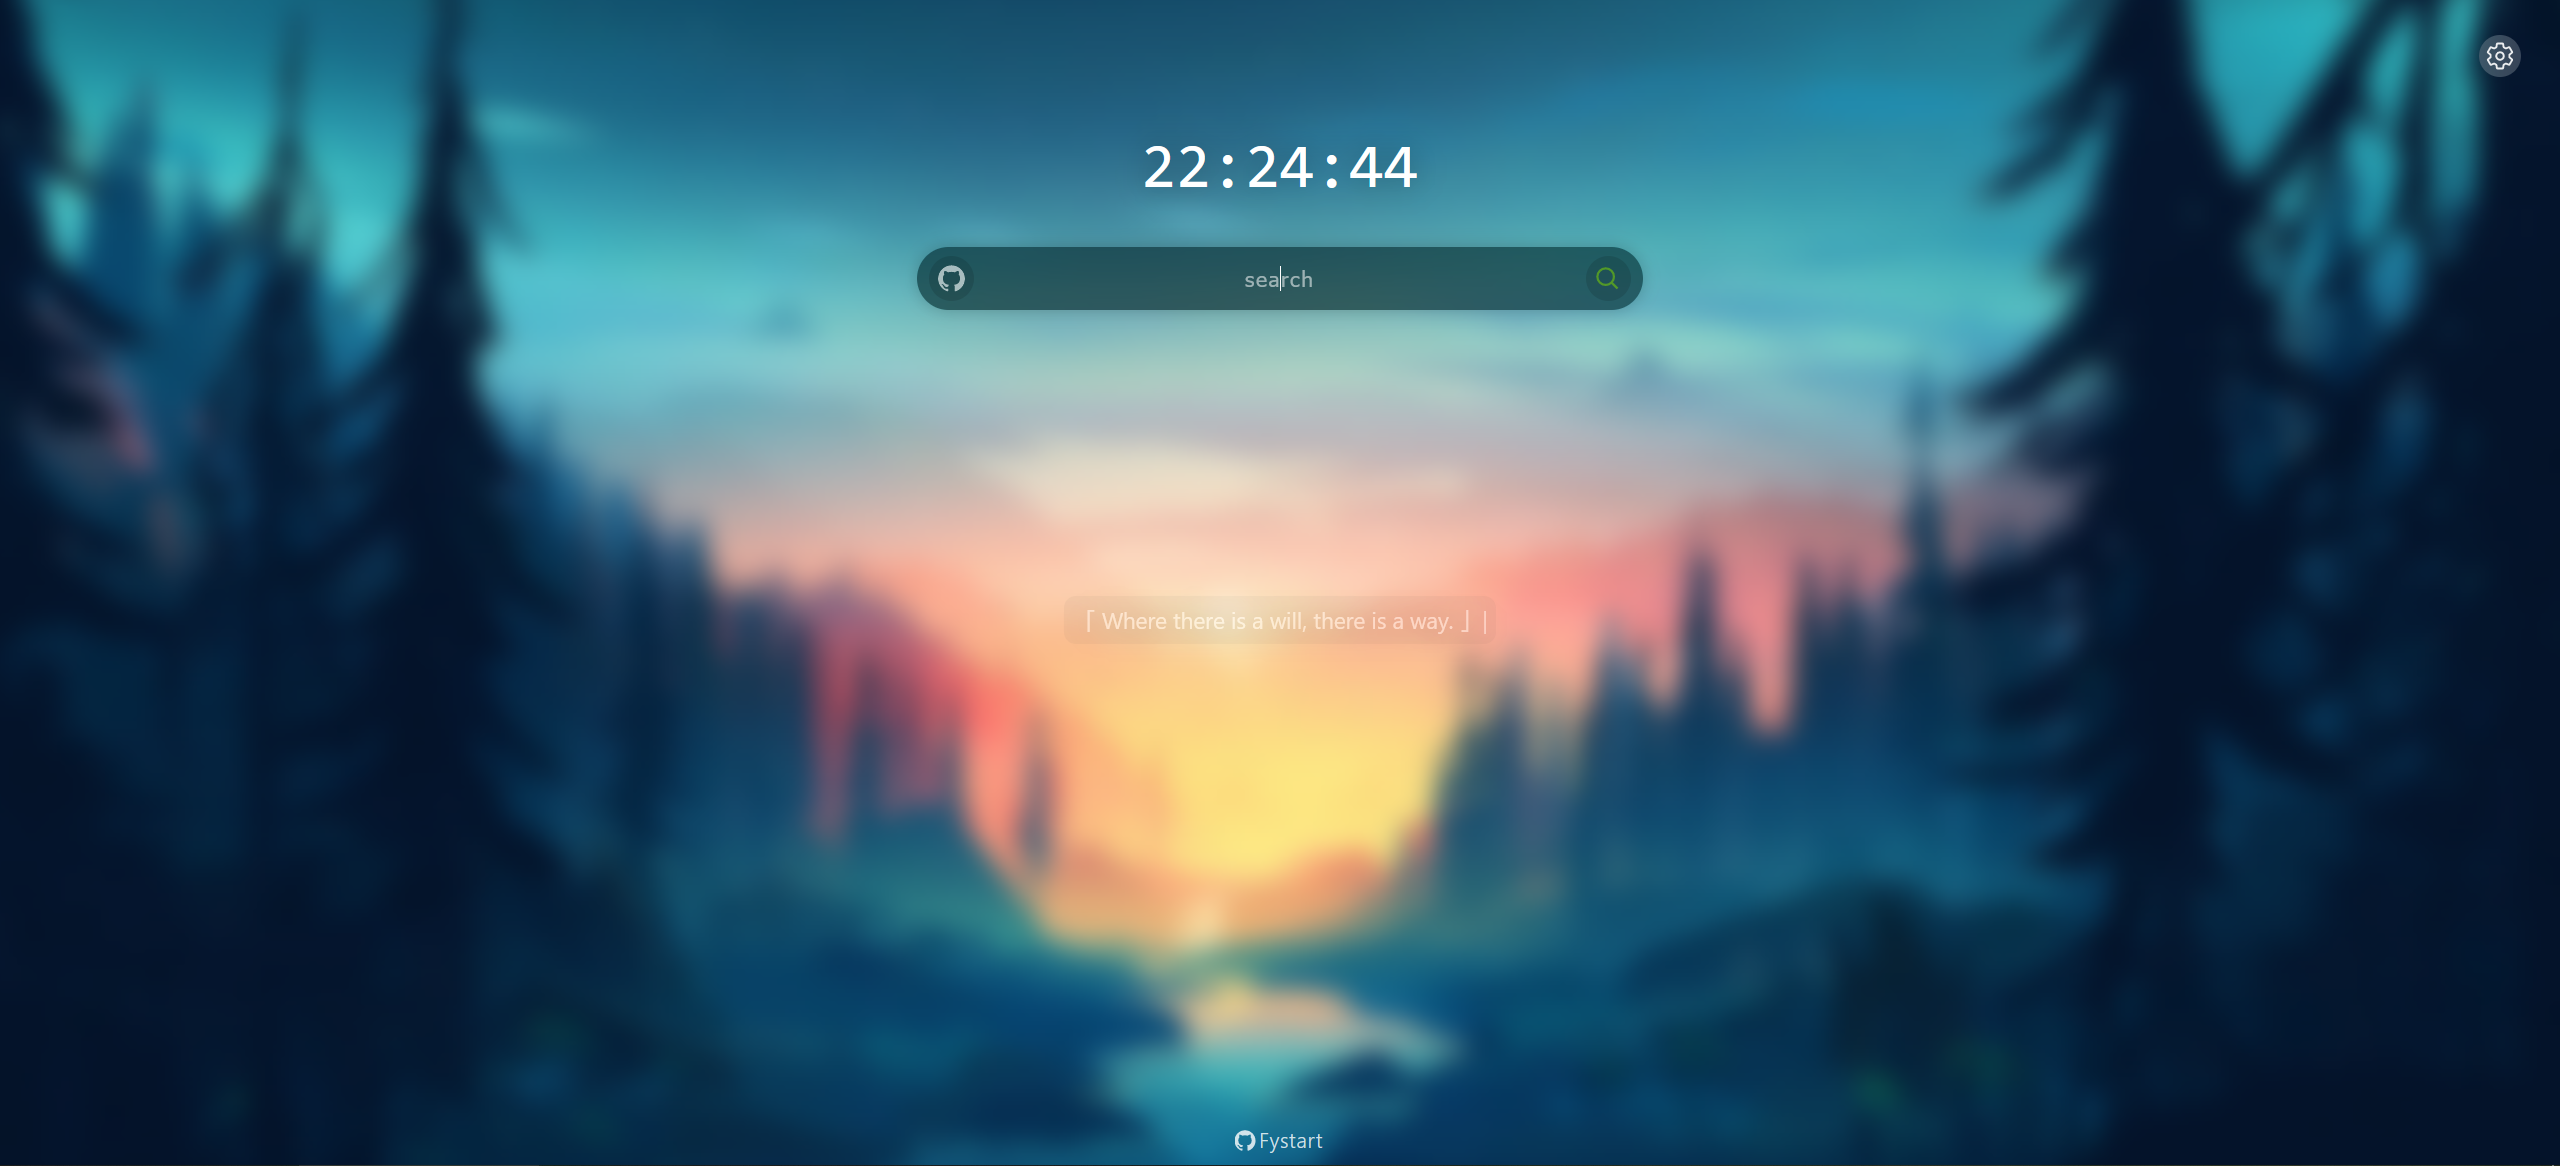
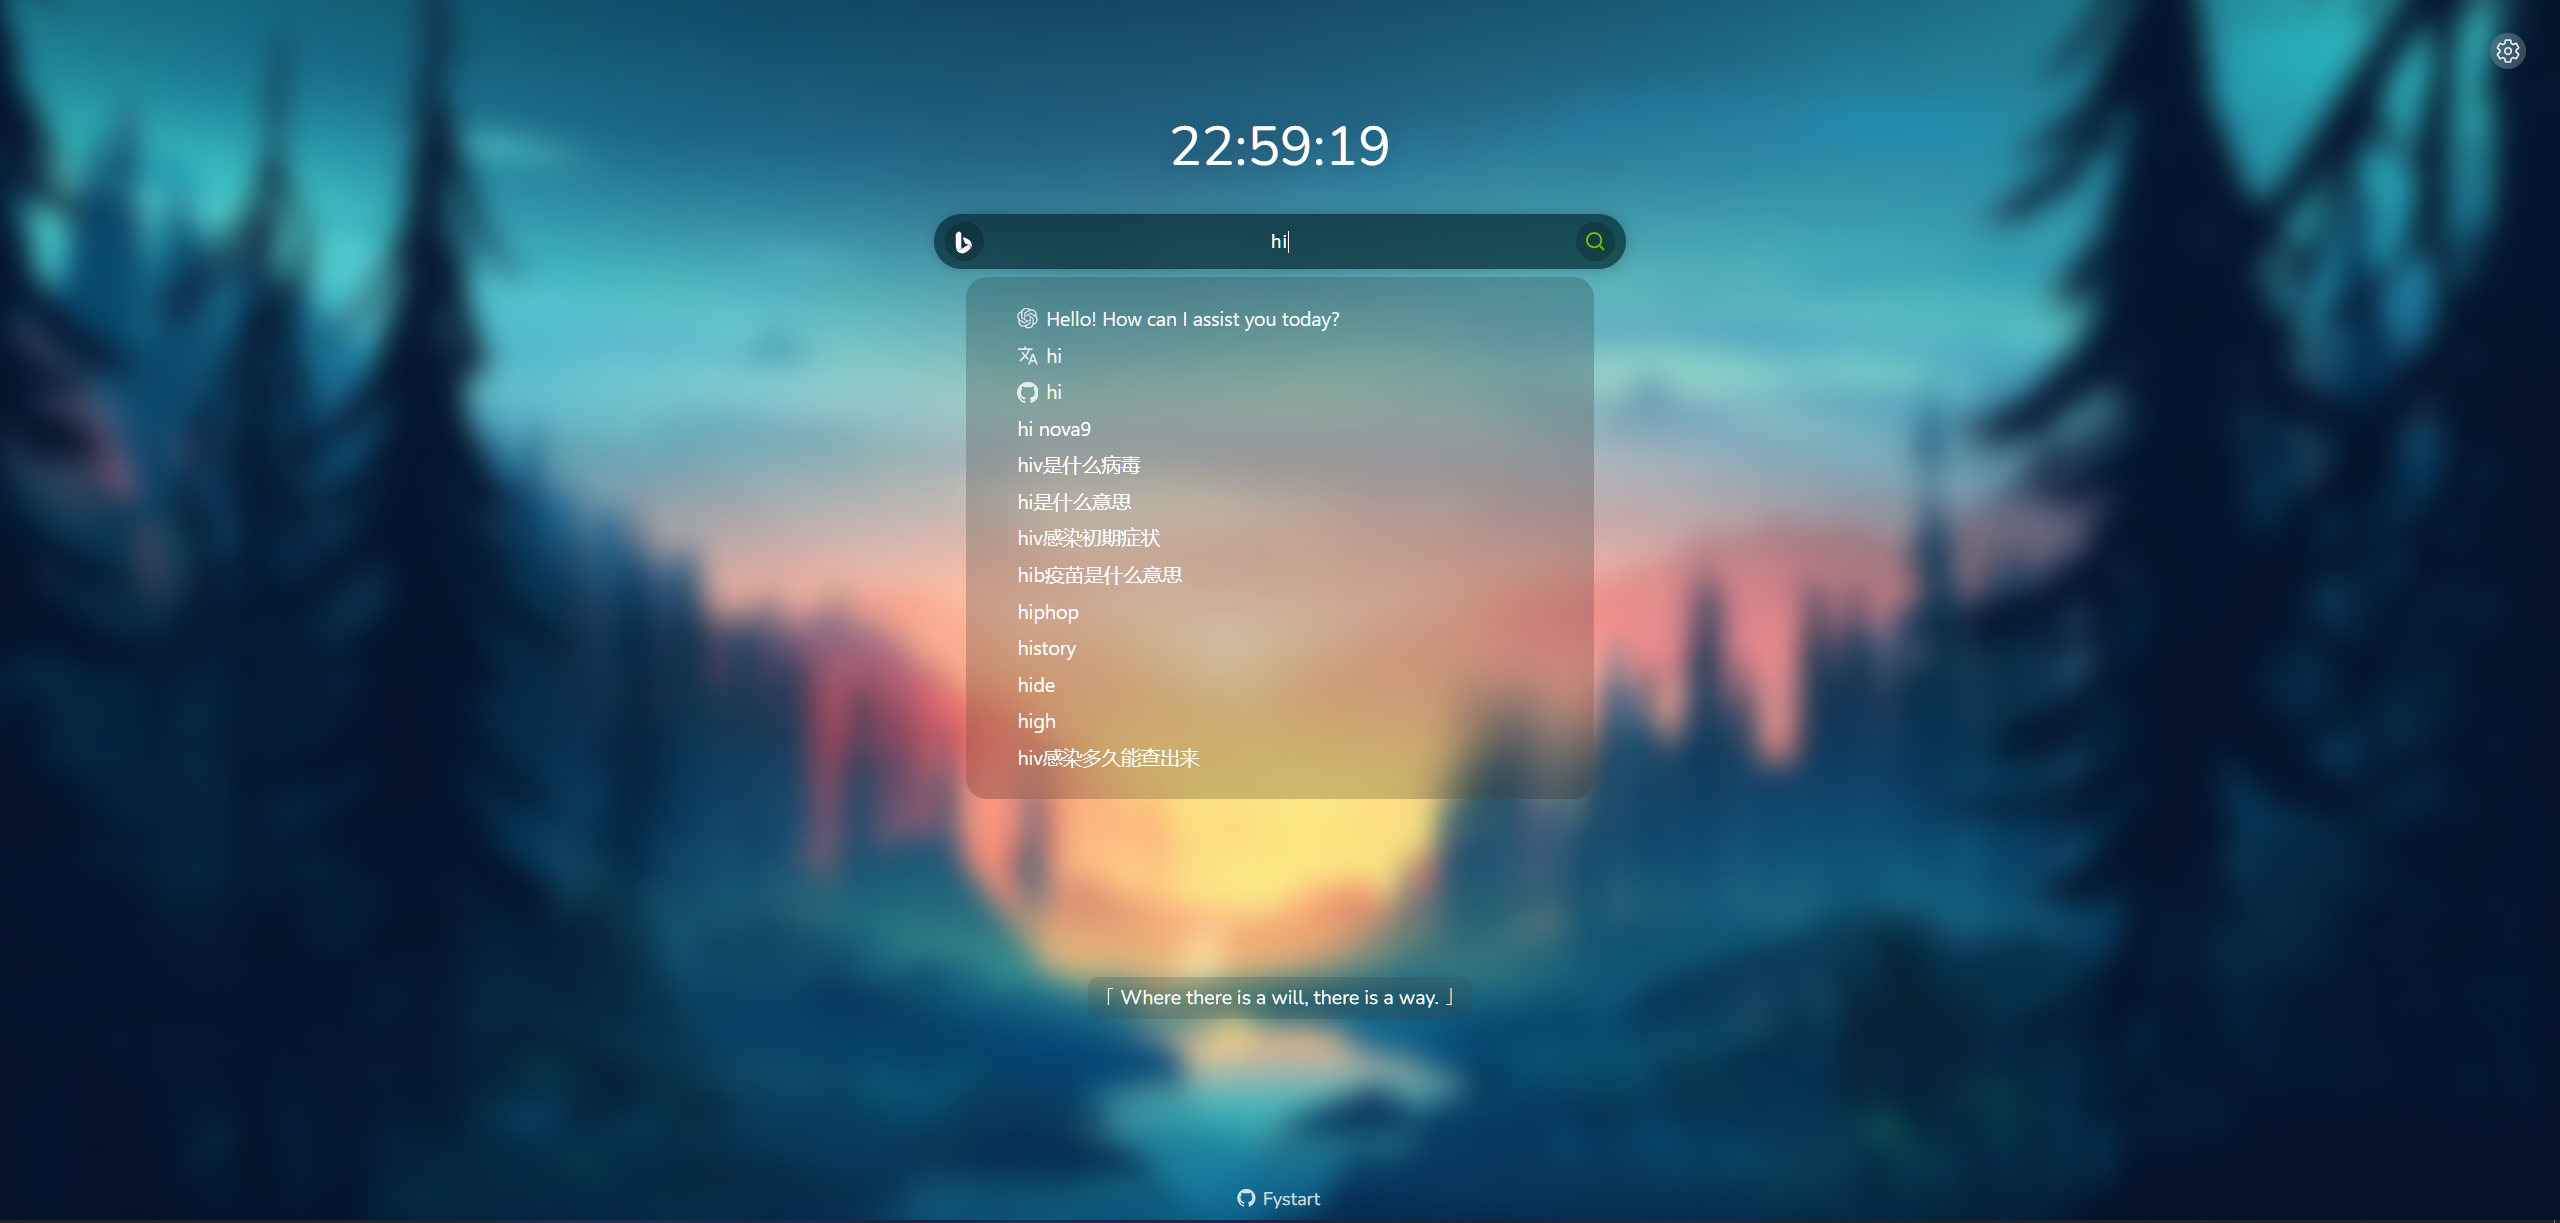
update docs

diff --git a/README.md b/README.md
@@ -3,12 +3,23 @@
 ![fystart](/public/favicon.ico)
 # [Fystart](https://fystart.deeptrain.net/)
 
-#### A simple and intuitive browser start page based on vue3.
-#### 一个基于vue3的简洁的起始页
-###### 灵感来源于[青柠起始页](https://limestart.cn)
+#### A simple and intuitive browser start page
+#### 一个简洁的起始页
 
 </div>
 
+
+## Features | 功能
+- 🍏 一言 
+  - 🍏 Quotes
+- 🍋 设置 (自定义背景，自定义搜索引擎) 
+  - 🍋 Settings (Custom Background, Custom Search Engine)
+- 🍎 ChatGPT 支持
+  - 🍎 ChatGPT Support 
+- 🍉 翻译 / Github 搜索
+  - 🍉 Translation / GitHub Search
+- 🍐 搜索引擎建议
+  - 🍐 Search Engine Suggestions
 
 ## ScreenShot | 快照
 ![main](/screenshot/main.png)
